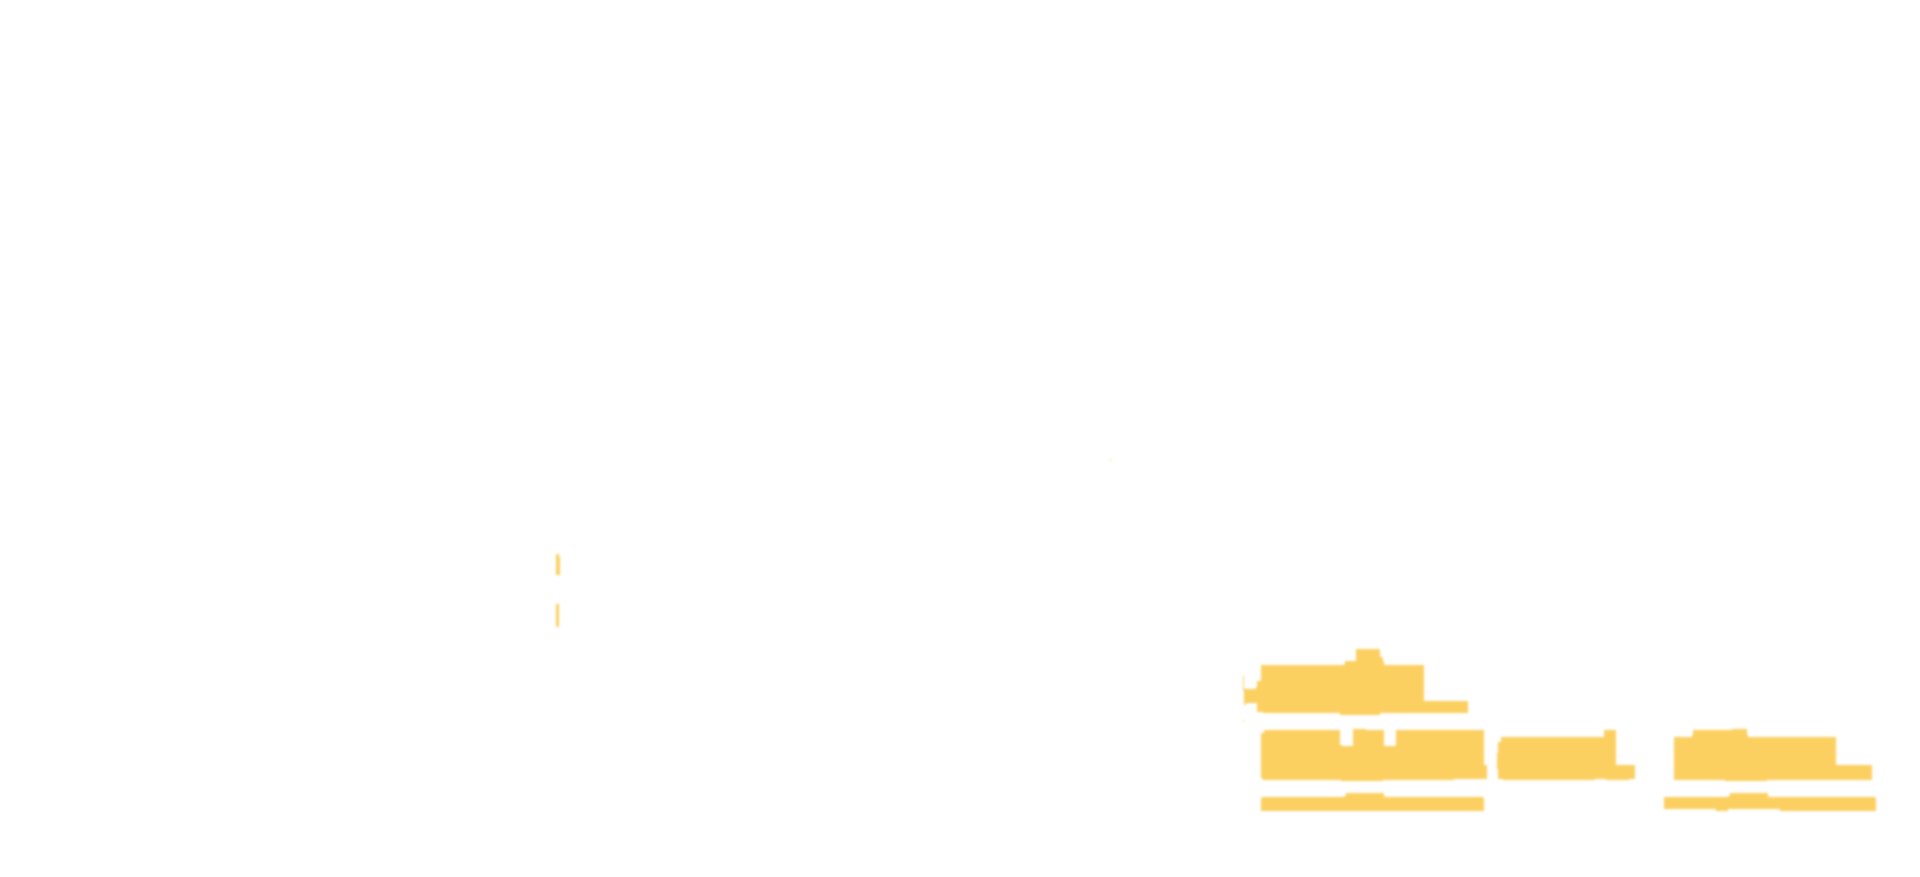
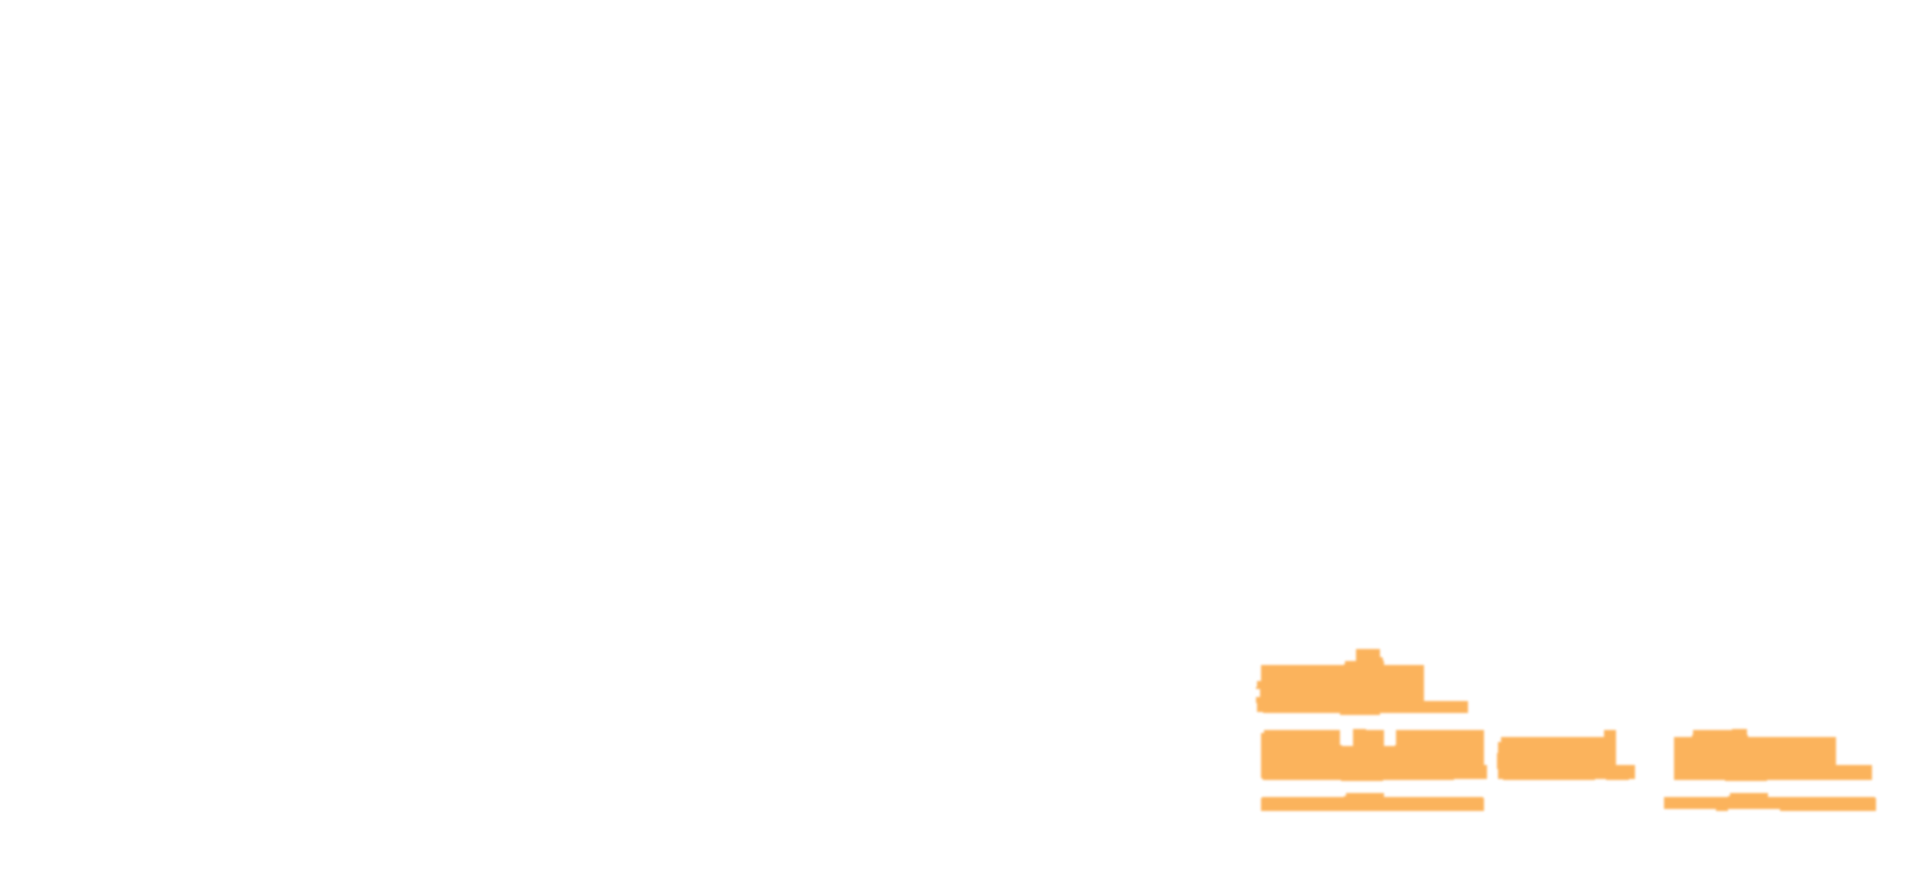
fix(meeting): módulos pelo desenho do comercial e unidades 427 + 174
- Módulo I (verde) e Módulo II (laranja) pintados conforme o desenho, só onde há casa
- Módulo I 427 casas, Módulo II 174; comissão do Módulo 1 recalculada (R$ 2.690.100)

Changed region(s): [[0.625, 0.7389, 1.0, 0.9236]]

diff --git a/public/meeting/parque-norte-v8AJc2KfXs/index.html b/public/meeting/parque-norte-v8AJc2KfXs/index.html
@@ -487,9 +487,8 @@ body.ui #hint{opacity:.7}
     <div class="ab rv lf d3" style="--x:46;--y:556;color:#3a1f0a;line-height:1;font-size:calc(var(--u)*30);letter-spacing:-.02em">Escolha<br><span style="font-weight:400">sua</span> <b style="font-weight:800">Unidade:</b></div>
     <div class="ab" style="--x:290;--y:566;--w:850;display:flex;flex-wrap:nowrap;gap:calc(var(--u)*9)">
       <span class="chip rv up d5" style="font-size:calc(var(--u)*13.5);padding:.6em 1em;white-space:nowrap"><span class="ico" style="background:var(--verde)"></span><span><b data-count="601"></b> casas no masterplan</span></span>
-      <span class="chip rv up d6" style="font-size:calc(var(--u)*13.5);padding:.6em 1em;white-space:nowrap"><span class="ico" style="background:var(--verde)"></span><span>Módulo I · 486</span></span>
-      <span class="chip rv up d7" style="font-size:calc(var(--u)*13.5);padding:.6em 1em;white-space:nowrap"><span class="ico" style="background:var(--verde)"></span><span>Módulo II · 115</span></span>
-      <span class="chip rv up d8" style="font-size:calc(var(--u)*13.5);padding:.6em 1em;white-space:nowrap;background:var(--verde);color:#fff"><span class="ico"></span><span><b data-count="427"></b> neste lançamento</span></span>
+      <span class="chip rv up d6" style="font-size:calc(var(--u)*13.5);padding:.6em 1em;white-space:nowrap"><span class="ico" style="background:var(--verde)"></span><span>Módulo I · <b data-count="427"></b> casas</span></span>
+      <span class="chip rv up d7" style="font-size:calc(var(--u)*13.5);padding:.6em 1em;white-space:nowrap"><span class="ico" style="background:var(--verde)"></span><span>Módulo II · <b data-count="174"></b> casas</span></span>
     </div>
     <div class="ilus" style="bottom:calc(var(--u)*240)">Imagem meramente ilustrativa*</div>
   </div>
@@ -507,8 +506,8 @@ body.ui #hint{opacity:.7}
     </div>
     <div class="ab rv lf d3" style="--x:46;--y:560;color:#fff;line-height:1;font-size:calc(var(--u)*30);letter-spacing:-.02em;font-weight:800">Modulação</div>
     <div class="ab mod-leg" style="--x:300;--y:562;--w:830;display:flex;flex-wrap:nowrap;gap:calc(var(--u)*12)">
-      <span class="chip rv up d8" style="font-size:calc(var(--u)*16);padding:.55em 1.1em;white-space:nowrap"><span class="sw" style="background:#3ec478"></span><span>Módulo I · <b data-count="486"></b> casas</span></span>
-      <span class="chip rv up d10" style="font-size:calc(var(--u)*16);padding:.55em 1.1em;white-space:nowrap"><span class="sw" style="background:#f7b928"></span><span>Módulo II · <b data-count="115"></b> casas</span></span>
+      <span class="chip rv up d8" style="font-size:calc(var(--u)*16);padding:.55em 1.1em;white-space:nowrap"><span class="sw" style="background:#3ec478"></span><span>Módulo I · <b data-count="427"></b> casas</span></span>
+      <span class="chip rv up d10" style="font-size:calc(var(--u)*16);padding:.55em 1.1em;white-space:nowrap"><span class="sw" style="background:#fa961e"></span><span>Módulo II · <b data-count="174"></b> casas</span></span>
     </div>
   </div>
 </section>
@@ -888,7 +887,7 @@ body.ui #hint{opacity:.7}
       <p class="lead rv d3" style="margin:1.5vh auto 0;max-width:none;font-weight:700;color:#fff">R$ 6.300 por venda</p>
     </div>
     <div class="step2 mt2">
-      <div class="eyebrow">O Módulo 1 (486 casas) soma</div>
+      <div class="eyebrow">O Módulo 1 (427 casas) soma</div>
       <div class="big-money">R$ <span id="comi-total">0</span></div>
       <div class="caps mt1">em comissões</div>
     </div>
@@ -1110,7 +1109,7 @@ var comScene = document.getElementById('s-comissao');
 var comStep = 0;
 function comReveal(){
   comScene.classList.add('reveal2');
-  countTo(document.getElementById('comi-total'), 3061800, 2600, function(){ burst(140); });
+  countTo(document.getElementById('comi-total'), 2690100, 2600, function(){ burst(140); });
 }
 
 /* ---- decorado ---- */
